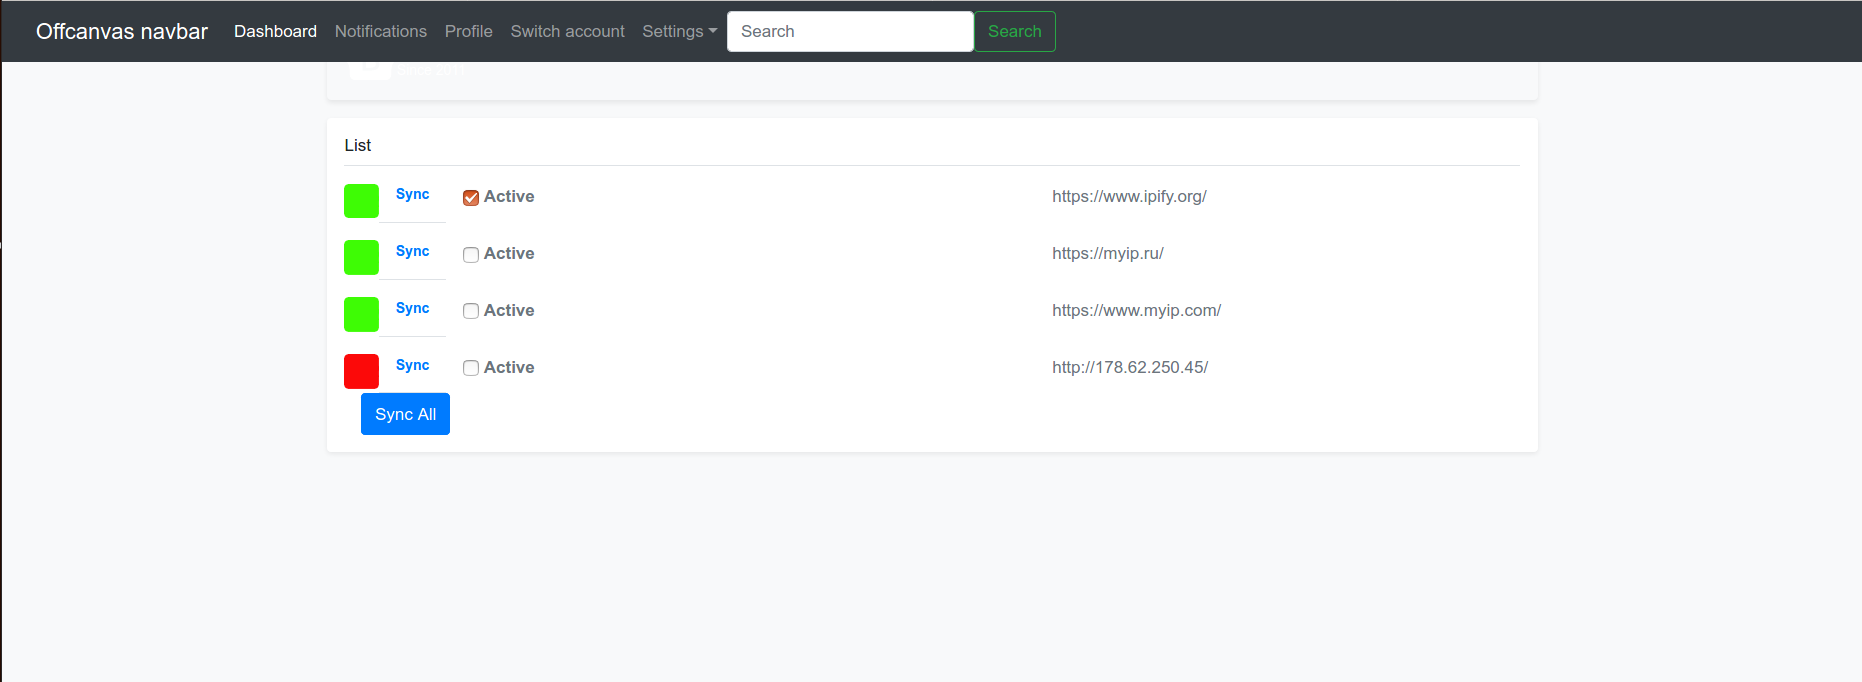
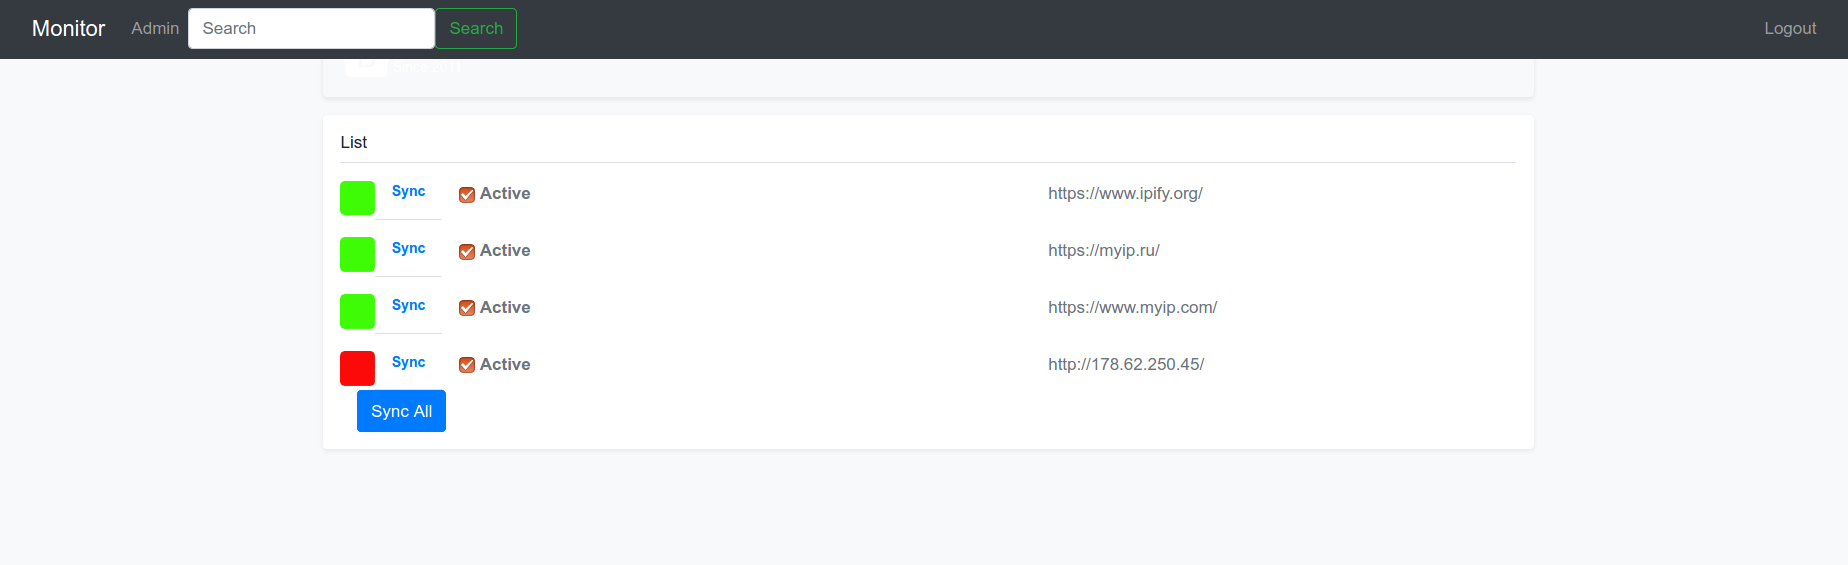
Fixed navbar elements position. Added `Sync All`

diff --git a/templates/base.html b/templates/base.html
@@ -21,41 +21,26 @@
           <span class="navbar-toggler-icon"></span>
         </button>
 
-        <div class="navbar-collapse offcanvas-collapse" id="navbarsExampleDefault">
-          <ul class="navbar-nav me-auto mb-2 mb-lg-0">
-            <li class="nav-item active">
-              <a class="nav-link" aria-current="page" href="#">Dashboard</a>
-            </li>
+        <ul class="navbar-nav me-auto mb-2 mb-lg-0">
             <li class="nav-item">
               <a class="nav-link" href="/admin/" target="_blank">Admin</a>
             </li>
-            <li class="nav-item">
-              <a class="nav-link" href="#">Profile</a>
-            </li>
-            <li class="nav-item">
-              <a class="nav-link" href="#">Switch account</a>
-            </li>
-            <li class="nav-item dropdown">
-              <a class="nav-link dropdown-toggle" href="#" id="dropdown01" data-bs-toggle="dropdown" aria-expanded="false">Settings</a>
-              <ul class="dropdown-menu" aria-labelledby="dropdown01">
-                <li><a class="dropdown-item" href="#">Action</a></li>
-                <li><a class="dropdown-item" href="#">Another action</a></li>
-                <li><a class="dropdown-item" href="#">Something else here</a></li>
-              </ul>
-            </li>
           </ul>
+
+        <div class="navbar-collapse offcanvas-collapse justify-content-between" id="navbarsExampleDefault">
           <form class="d-flex">
             <input class="form-control me-2" type="search" placeholder="Search" aria-label="Search">
             <button class="btn btn-outline-success" type="submit">Search</button>
           </form>
-          {% if request.user.is_authenticated %}
+
+          <ul class="navbar-nav me-auto mb-2 mb-lg-0">
             <li class="nav-item">
-              <a class="nav-link" href="/logout/">Logout</a>
-          </li>
-          {% else %}
-          <li class="nav-item">
-              <a class="nav-link" href="/login/">Login</a>
-          </li>
+              {% if request.user.is_authenticated %}
+                  <a class="nav-link" href="/logout/">Logout</a>
+              {% else %}
+                  <a class="nav-link" href="/login/">Login</a>
+            </li>
+          </ul>
 
           {% endif %}
         </div>

diff --git a/templates/static/js/base.js b/templates/static/js/base.js
@@ -8,7 +8,7 @@ function sync(url_obj_id) {
         type: 'POST',
         cache: false,
         data: {'url_obj_id': url_obj_id},
-        url: '/monitor/url/' + url_obj_id + '/',
+        url: '/monitor/sync/url/' + url_obj_id + '/',
         error: function(xhr, status, e) {
            console.log(xhr.responseJSON.msg);
         },
@@ -20,6 +20,19 @@ function sync(url_obj_id) {
 
 function sync_all() {
     console.log('sync all urls ');
+
+    $.ajax({
+        type: 'POST',
+        cache: false,
+        data: {},
+        url: '/monitor/sync/urls/',
+        error: function(xhr, status, e) {
+           console.log(xhr.responseJSON.msg);
+        },
+    }).done(function(response) {
+        console.log('success');
+        location.reload();
+    });
 }
 
 $("[type='checkbox']").change(function() {

diff --git a/url_monitor/views.py b/url_monitor/views.py
@@ -32,6 +32,16 @@ class SyncUrl(generics.CreateAPIView):
         return Response({'status': url_object.status}, status=status.HTTP_200_OK)
 
 
+class SyncUrlSet(generics.CreateAPIView):
+
+    def post(self, request):
+        status_list = []
+        for url_object in Url.objects.filter(active=True):
+            url_object.sync()
+            status_list.append(url_object.status)
+        return Response({'status': status_list}, status=status.HTTP_200_OK)
+
+
 class SyncActive(generics.CreateAPIView):
 
     def post(self, request, url_obj_id):

diff --git a/url_monitor/urls.py b/url_monitor/urls.py
@@ -4,7 +4,8 @@ from django.urls import include
 from url_monitor import views
 
 urlpatterns = [
-    url(r'url/(?P<url_obj_id>\d+)/$', views.SyncUrl.as_view(), name='sync'),
+    url(r'sync/url/(?P<url_obj_id>\d+)/$', views.SyncUrl.as_view(), name='sync_url'),
+    url(r'sync/urls/$', views.SyncUrlSet.as_view(), name='sync_url_set'),
     url(r'active/(?P<url_obj_id>\d+)/$', views.SyncActive.as_view(), name='active'),
     url(r'$', views.Base.as_view(), name='base'),
 

diff --git a/url_monitor/admin.py b/url_monitor/admin.py
@@ -10,6 +10,7 @@ from django.contrib.admin.models import LogEntry
 class UrlAdmin(admin.ModelAdmin):
     model = Url
     readonly_fields = ('created', 'updated')
+    list_filter = ('user',)
 
 
 class LogEntryAdmin(admin.ModelAdmin):
